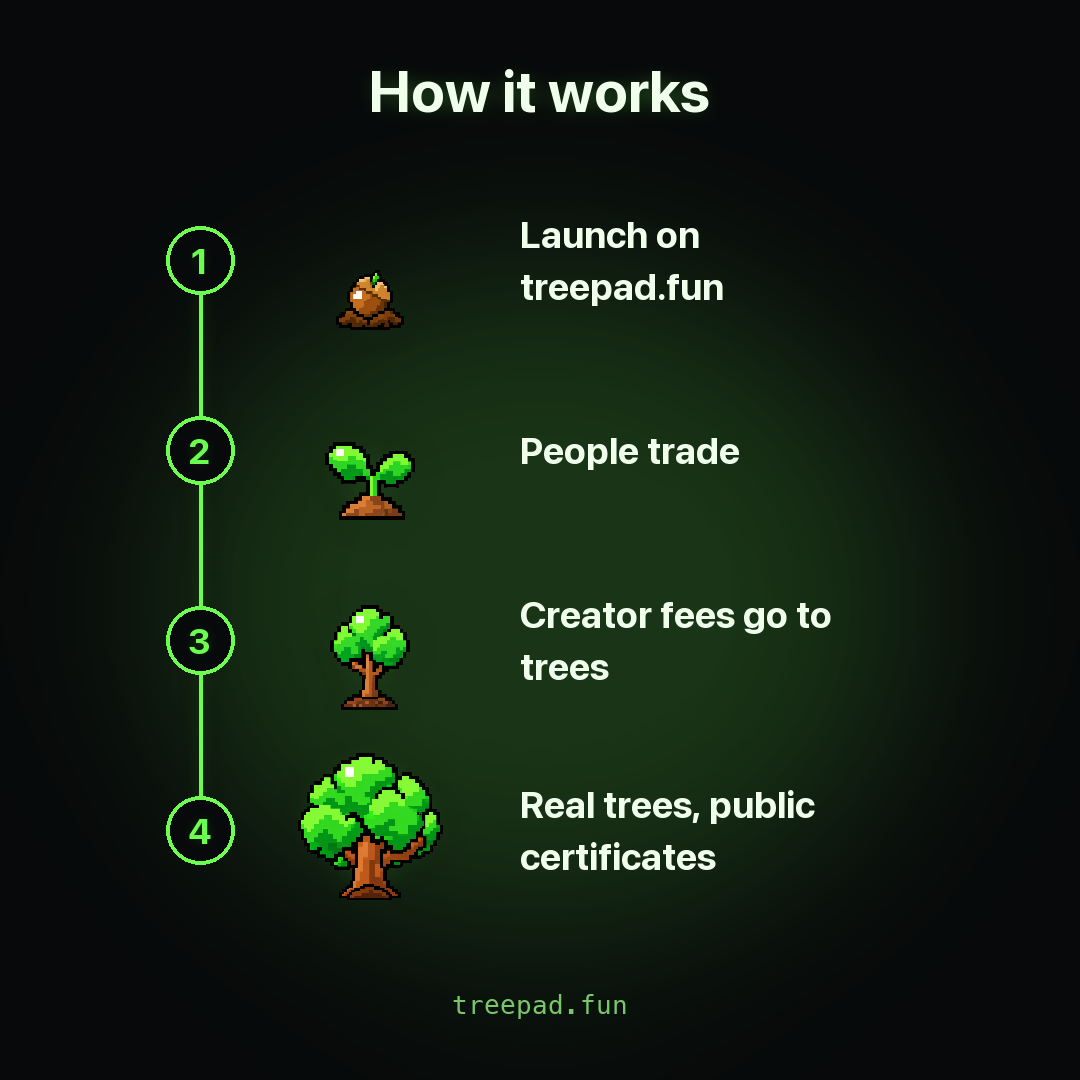
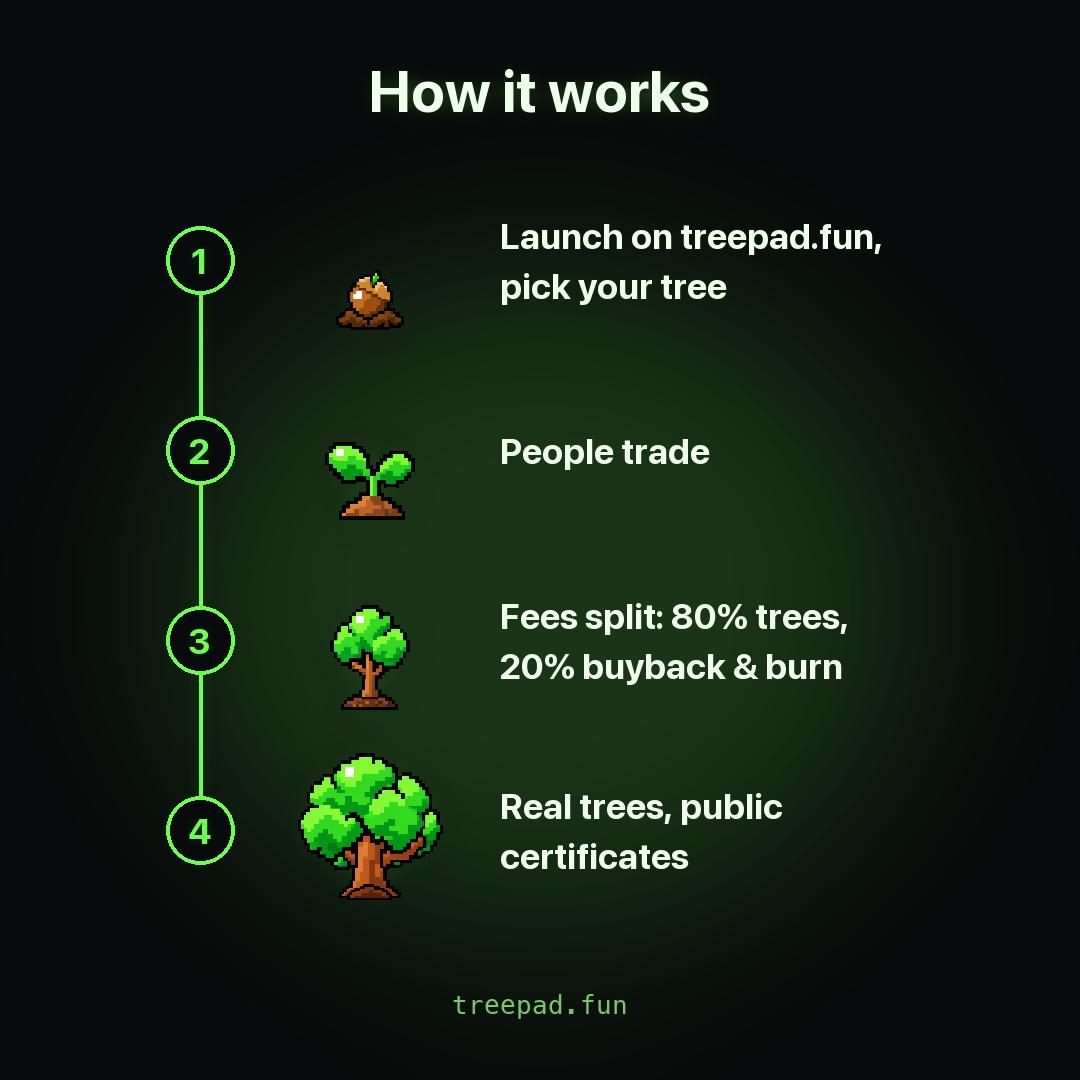
feat: Treepad launch-day kit, 80/20 split

diff --git a/docs/treepad-launch-kit/index.html b/docs/treepad-launch-kit/index.html
@@ -9,79 +9,83 @@ h1{font-size:32px;margin:8px 0 4px}h2{font-size:22px;margin:32px 0 2px}.when,.to
 figure{overflow:hidden}figure img{width:100%;max-height:300px;object-fit:contain;background:#07090a;display:block;cursor:zoom-in}
 figcaption{display:flex;justify-content:space-between;align-items:center;gap:8px;padding:10px 12px;font-weight:600;font-size:13px;flex-wrap:wrap}small{color:var(--muted);font-weight:400}
 button{font:600 13px inherit;border-radius:9px;padding:7px 12px;cursor:pointer;border:0}.b{background:var(--neon);color:#07090a;align-self:flex-start}.g{background:transparent;color:var(--fg);border:1px solid var(--line)}
-</style></head><body><h1>Treepad launch kit</h1><p class="top">@treepadfun · tap Copy on any tweet or picture. After launch, the proof tweet with the real certificate link is at <a href="https://treepad.fun/launch-proof" target="_blank">treepad.fun/launch-proof</a>. [CA] is the contract address.</p><section><h2>Profile</h2><p class="when">Set up before the first tweet.</p><div class="tw"><div class="card"><div class="lab">Bio (also pump.fun description and DEX Screener info)</div><pre>Coin launchpad on pump.fun. 80% of creator fees plant real trees, 20% buys back and burns our own coin. No extra tax on traders. Every trade plants a tree.</pre><button class="b" data-t="Coin launchpad on pump.fun. 80% of creator fees plant real trees, 20% buys back and burns our own coin. No extra tax on traders. Every trade plants a tree.">Copy</button></div></div><div class="im"><figure><img src="img/avatar.png" alt="Profile picture" loading="lazy" onclick="window.open(this.src)"><figcaption><span>Profile picture <small>400×400</small></span><span><button class="b ci">Copy image</button> <button class="g dl" data-n="treepad-avatar.png">Download</button></span></figcaption></figure><figure><img src="img/x-header.png" alt="Header" loading="lazy" onclick="window.open(this.src)"><figcaption><span>Header <small>1500×500</small></span><span><button class="b ci">Copy image</button> <button class="g dl" data-n="treepad-x-header.png">Download</button></span></figcaption></figure></div></section><section><h2>Pre-launch</h2><p class="when">Before you go live. Pick one.</p><div class="tw"><div class="card"><div class="lab">Teaser 1</div><pre>Most coins send creator fees to a dev wallet.
+</style></head><body><h1>Treepad launch kit</h1><p class="top">@treepadfun · tap Copy on any tweet or picture. After launch, the proof tweet with the real certificate link is at <a href="https://treepad.fun/launch-proof" target="_blank">treepad.fun/launch-proof</a>. [CA] is the contract address.</p><section><h2>Profile</h2><p class="when">Set up before the launch tweet.</p><div class="tw"><div class="card"><div class="lab">Bio (also pump.fun description and DEX Screener info)</div><pre>Coin launchpad on pump.fun. 80% of creator fees plant real trees, 20% buys back and burns our own coin. No extra tax on traders. Every trade plants a tree.</pre><button class="b" data-t="Coin launchpad on pump.fun. 80% of creator fees plant real trees, 20% buys back and burns our own coin. No extra tax on traders. Every trade plants a tree.">Copy</button></div></div><div class="im"><figure><img src="img/avatar.png" alt="Profile picture" loading="lazy" onclick="window.open(this.src)"><figcaption><span>Profile picture <small>400×400</small></span><span><button class="b ci">Copy image</button> <button class="g dl" data-n="treepad-avatar.png">Download</button></span></figcaption></figure><figure><img src="img/x-header.png" alt="Header" loading="lazy" onclick="window.open(this.src)"><figcaption><span>Header <small>1500×500</small></span><span><button class="b ci">Copy image</button> <button class="g dl" data-n="treepad-x-header.png">Download</button></span></figcaption></figure></div></section><section><h2>Launch</h2><p class="when">The moment you go live. Pick one.</p><div class="tw"><div class="card"><div class="lab">Launch 1</div><pre>Treepad is live.
 
-One launchpad sends them into the ground.
+Launch a coin on pump.fun through treepad.fun. 80% of its creator fees plant a tree you pick, 20% buys back and burns $TICKER.
 
-Soon.</pre><button class="b" data-t="Most coins send creator fees to a dev wallet.
-
-One launchpad sends them into the ground.
-
-Soon.">Copy</button></div><div class="card"><div class="lab">Teaser 2</div><pre>Every trade plants a tree.
-
-Each tree gets its own public certificate. Receipts for all of it.
-
-Soon.</pre><button class="b" data-t="Every trade plants a tree.
-
-Each tree gets its own public certificate. Receipts for all of it.
-
-Soon.">Copy</button></div><div class="card"><div class="lab">Teaser 3</div><pre>Mangroves in Kenya. Mahogany in Nicaragua. Avocado in Uganda.
-
-500+ real trees in 22 countries, and your coin's fees pick which one.
-
-Treepad. Soon.</pre><button class="b" data-t="Mangroves in Kenya. Mahogany in Nicaragua. Avocado in Uganda.
-
-500+ real trees in 22 countries, and your coin's fees pick which one.
-
-Treepad. Soon.">Copy</button></div></div><div class="im"><figure><img src="img/prelaunch.png" alt="Teaser" loading="lazy" onclick="window.open(this.src)"><figcaption><span>Teaser <small>1600×900</small></span><span><button class="b ci">Copy image</button> <button class="g dl" data-n="treepad-prelaunch.png">Download</button></span></figcaption></figure><figure><img src="img/other-devs.png" alt="Other launchpads vs Treepad" loading="lazy" onclick="window.open(this.src)"><figcaption><span>Other launchpads vs Treepad <small>1600×900</small></span><span><button class="b ci">Copy image</button> <button class="g dl" data-n="treepad-other-devs.png">Download</button></span></figcaption></figure><figure><img src="img/world-pins.png" alt="Plant anywhere" loading="lazy" onclick="window.open(this.src)"><figcaption><span>Plant anywhere <small>1600×900</small></span><span><button class="b ci">Copy image</button> <button class="g dl" data-n="treepad-world-pins.png">Download</button></span></figcaption></figure></div></section><section><h2>Launch</h2><p class="when">The moment you go live. Pick one.</p><div class="tw"><div class="card"><div class="lab">Launch 1</div><pre>Treepad is live.
-
-Launch a coin on pump.fun through treepad.fun and 80% of its creator fees plant trees. The other 20% buys back and burns the Treepad coin. No extra tax on traders.
-
-Every trade plants a tree.
+No extra tax on traders. Every trade plants a tree.
 
 [CA]</pre><button class="b" data-t="Treepad is live.
 
-Launch a coin on pump.fun through treepad.fun and 80% of its creator fees plant trees. The other 20% buys back and burns the Treepad coin. No extra tax on traders.
+Launch a coin on pump.fun through treepad.fun. 80% of its creator fees plant a tree you pick, 20% buys back and burns $TICKER.
 
-Every trade plants a tree.
+No extra tax on traders. Every trade plants a tree.
 
 [CA]">Copy</button></div><div class="card"><div class="lab">Launch 2</div><pre>Every trade plants a tree.
 
-Treepad is live on pump.fun. Pick from 500+ real trees in 22 countries and 80% of your coin's creator fees plant them. 20% buys back and burns the Treepad coin. The whole ledger is public.
+Treepad is live on pump.fun. Pick from 500+ trees in 22 countries and 80% of your coin's fees plant them. The other 20% buys back and burns $TICKER.
 
 treepad.fun
 
 [CA]</pre><button class="b" data-t="Every trade plants a tree.
 
-Treepad is live on pump.fun. Pick from 500+ real trees in 22 countries and 80% of your coin's creator fees plant them. 20% buys back and burns the Treepad coin. The whole ledger is public.
+Treepad is live on pump.fun. Pick from 500+ trees in 22 countries and 80% of your coin's fees plant them. The other 20% buys back and burns $TICKER.
 
 treepad.fun
 
-[CA]">Copy</button></div></div><div class="im"><figure><img src="img/launch.png" alt="Launch" loading="lazy" onclick="window.open(this.src)"><figcaption><span>Launch <small>1600×900</small></span><span><button class="b ci">Copy image</button> <button class="g dl" data-n="treepad-launch.png">Download</button></span></figcaption></figure><figure><img src="img/launch-square.png" alt="Launch (square)" loading="lazy" onclick="window.open(this.src)"><figcaption><span>Launch (square) <small>1080×1080</small></span><span><button class="b ci">Copy image</button> <button class="g dl" data-n="treepad-launch-square.png">Download</button></span></figcaption></figure></div></section><section><h2>Pinned thread</h2><p class="when">Right after the launch tweet. Post as a thread, pin the first one.</p><div class="tw"><div class="card"><div class="lab">1/</div><pre>1/ Treepad is a coin launchpad on pump.fun where 80% of creator fees plant trees and 20% buys back and burns the Treepad coin.
+[CA]">Copy</button></div></div><div class="im"><figure><img src="img/launch.png" alt="Launch" loading="lazy" onclick="window.open(this.src)"><figcaption><span>Launch <small>1600×900</small></span><span><button class="b ci">Copy image</button> <button class="g dl" data-n="treepad-launch.png">Download</button></span></figcaption></figure><figure><img src="img/launch-square.png" alt="Launch (square)" loading="lazy" onclick="window.open(this.src)"><figcaption><span>Launch (square) <small>1080×1080</small></span><span><button class="b ci">Copy image</button> <button class="g dl" data-n="treepad-launch-square.png">Download</button></span></figcaption></figure></div></section><section><h2>Pinned thread</h2><p class="when">Right after the proof tweet. Post as a thread, pin the first one.</p><div class="tw"><div class="card"><div class="lab">1/</div><pre>1/ Treepad is a launchpad on pump.fun where your coin's fees plant real trees.
 
-You launch through treepad.fun. Your coin goes live on pump.fun like any other.
+Launch through treepad.fun, pick a tree, and your coin goes live on pump.fun like any other.
 
-Every trade plants a tree.</pre><button class="b" data-t="1/ Treepad is a coin launchpad on pump.fun where 80% of creator fees plant trees and 20% buys back and burns the Treepad coin.
+Every trade plants a tree.</pre><button class="b" data-t="1/ Treepad is a launchpad on pump.fun where your coin's fees plant real trees.
 
-You launch through treepad.fun. Your coin goes live on pump.fun like any other.
+Launch through treepad.fun, pick a tree, and your coin goes live on pump.fun like any other.
 
-Every trade plants a tree.">Copy</button></div><div class="card"><div class="lab">2/</div><pre>2/ 80% of the coin's creator fees go to planting trees, 20% to buying back and burning the Treepad coin. It's pump.fun's normal creator fee, so traders pay no extra tax.
+Every trade plants a tree.">Copy</button></div><div class="card"><div class="lab">2/</div><pre>2/ The split is locked on chain the moment your coin is created:
 
-Fees reach the tree wallet within seconds. A tree is ordered as soon as fees cover one.</pre><button class="b" data-t="2/ 80% of the coin's creator fees go to planting trees, 20% to buying back and burning the Treepad coin. It's pump.fun's normal creator fee, so traders pay no extra tax.
+80% of creator fees plant trees
+20% buys back and burns $TICKER, our own coin
 
-Fees reach the tree wallet within seconds. A tree is ordered as soon as fees cover one.">Copy</button></div><div class="card"><div class="lab">3/</div><pre>3/ You pick the tree. 500+ species in 22 countries: mangroves in Kenya, mahogany in Nicaragua, oaks in Spain, rainforest in Australia.
+It's pump.fun's normal creator fee. Traders pay nothing extra.</pre><button class="b" data-t="2/ The split is locked on chain the moment your coin is created:
 
-All planted through Tree-Nation, from €0.35 a tree.</pre><button class="b" data-t="3/ You pick the tree. 500+ species in 22 countries: mangroves in Kenya, mahogany in Nicaragua, oaks in Spain, rainforest in Australia.
+80% of creator fees plant trees
+20% buys back and burns $TICKER, our own coin
 
-All planted through Tree-Nation, from €0.35 a tree.">Copy</button></div><div class="card"><div class="lab">4/</div><pre>4/ Check it yourself.
+It's pump.fun's normal creator fee. Traders pay nothing extra.">Copy</button></div><div class="card"><div class="lab">3/</div><pre>3/ You pick the tree. 500+ species in 22 countries: mangroves in Kenya, mahogany in Nicaragua, oaks in Spain, rainforest in Australia.
 
-Every tree has its own public certificate. Every fee payout is a Solana transaction. The whole ledger is on the Forest page.
+Planted through Tree-Nation, from €0.35 a tree.</pre><button class="b" data-t="3/ You pick the tree. 500+ species in 22 countries: mangroves in Kenya, mahogany in Nicaragua, oaks in Spain, rainforest in Australia.
 
-treepad.fun/forest</pre><button class="b" data-t="4/ Check it yourself.
+Planted through Tree-Nation, from €0.35 a tree.">Copy</button></div><div class="card"><div class="lab">4/</div><pre>4/ It runs itself. Fees reach the tree wallet within seconds, and a tree is ordered the moment fees cover one.
 
-Every tree has its own public certificate. Every fee payout is a Solana transaction. The whole ledger is on the Forest page.
+Nothing to claim, no dev wallet in the middle.</pre><button class="b" data-t="4/ It runs itself. Fees reach the tree wallet within seconds, and a tree is ordered the moment fees cover one.
 
-treepad.fun/forest">Copy</button></div></div><div class="im"><figure><img src="img/how-it-works.png" alt="How it works" loading="lazy" onclick="window.open(this.src)"><figcaption><span>How it works <small>1600×900</small></span><span><button class="b ci">Copy image</button> <button class="g dl" data-n="treepad-how-it-works.png">Download</button></span></figcaption></figure><figure><img src="img/how-it-works-square.png" alt="How it works (square)" loading="lazy" onclick="window.open(this.src)"><figcaption><span>How it works (square) <small>1080×1080</small></span><span><button class="b ci">Copy image</button> <button class="g dl" data-n="treepad-how-it-works-square.png">Download</button></span></figcaption></figure><figure><img src="img/pick-your-tree.png" alt="Pick your tree" loading="lazy" onclick="window.open(this.src)"><figcaption><span>Pick your tree <small>1600×900</small></span><span><button class="b ci">Copy image</button> <button class="g dl" data-n="treepad-pick-your-tree.png">Download</button></span></figcaption></figure><figure><img src="img/pick-your-tree-square.png" alt="Pick your tree (square)" loading="lazy" onclick="window.open(this.src)"><figcaption><span>Pick your tree (square) <small>1080×1080</small></span><span><button class="b ci">Copy image</button> <button class="g dl" data-n="treepad-pick-your-tree-square.png">Download</button></span></figcaption></figure></div></section><section><h2>Day one</h2><p class="when">Through the first day.</p><div class="tw"><div class="card"><div class="lab">Tree count</div><pre>[N] trees planted so far.
+Nothing to claim, no dev wallet in the middle.">Copy</button></div><div class="card"><div class="lab">5/</div><pre>5/ Check it yourself.
+
+Every tree has its own public certificate. Every fee payout is a Solana transaction. Every $TICKER buyback and burn is listed.
+
+treepad.fun/forest</pre><button class="b" data-t="5/ Check it yourself.
+
+Every tree has its own public certificate. Every fee payout is a Solana transaction. Every $TICKER buyback and burn is listed.
+
+treepad.fun/forest">Copy</button></div></div><div class="im"><figure><img src="img/how-it-works.png" alt="How it works" loading="lazy" onclick="window.open(this.src)"><figcaption><span>How it works <small>1600×900</small></span><span><button class="b ci">Copy image</button> <button class="g dl" data-n="treepad-how-it-works.png">Download</button></span></figcaption></figure><figure><img src="img/how-it-works-square.png" alt="How it works (square)" loading="lazy" onclick="window.open(this.src)"><figcaption><span>How it works (square) <small>1080×1080</small></span><span><button class="b ci">Copy image</button> <button class="g dl" data-n="treepad-how-it-works-square.png">Download</button></span></figcaption></figure><figure><img src="img/fees-to-trees.png" alt="80% trees, 20% buyback &amp; burn" loading="lazy" onclick="window.open(this.src)"><figcaption><span>80% trees, 20% buyback &amp; burn <small>1600×900</small></span><span><button class="b ci">Copy image</button> <button class="g dl" data-n="treepad-fees-to-trees.png">Download</button></span></figcaption></figure></div></section><section><h2>Buyback &amp; burn</h2><p class="when">Day one, and after every burn.</p><div class="tw"><div class="card"><div class="lab">Every coin feeds $TICKER</div><pre>Every coin launched on Treepad feeds $TICKER.
+
+20% of their creator fees buys back $TICKER and burns it. More launches, more trades, more $TICKER burned.
+
+Every buy and burn is public:
+treepad.fun/forest</pre><button class="b" data-t="Every coin launched on Treepad feeds $TICKER.
+
+20% of their creator fees buys back $TICKER and burns it. More launches, more trades, more $TICKER burned.
+
+Every buy and burn is public:
+treepad.fun/forest">Copy</button></div><div class="card"><div class="lab">Burn done</div><pre>$TICKER buyback and burn done.
+
+[SOL] SOL of Treepad's fees bought [BURNED] $TICKER, now burned for good.
+
+Burn: [BURN LINK]</pre><button class="b" data-t="$TICKER buyback and burn done.
+
+[SOL] SOL of Treepad's fees bought [BURNED] $TICKER, now burned for good.
+
+Burn: [BURN LINK]">Copy</button></div></div><div class="im"><figure><img src="img/buyback-burn.png" alt="Buyback &amp; burn" loading="lazy" onclick="window.open(this.src)"><figcaption><span>Buyback &amp; burn <small>1600×900</small></span><span><button class="b ci">Copy image</button> <button class="g dl" data-n="treepad-buyback-burn.png">Download</button></span></figcaption></figure><figure><img src="img/other-devs.png" alt="Other launchpads vs Treepad" loading="lazy" onclick="window.open(this.src)"><figcaption><span>Other launchpads vs Treepad <small>1600×900</small></span><span><button class="b ci">Copy image</button> <button class="g dl" data-n="treepad-other-devs.png">Download</button></span></figcaption></figure></div></section><section><h2>Day one and after</h2><p class="when">Keep the feed going.</p><div class="tw"><div class="card"><div class="lab">Tree count</div><pre>[N] trees planted so far.
 
 Every one has a public certificate. Open any of them:
 
@@ -89,15 +93,15 @@ treepad.fun/forest</pre><button class="b" data-t="[N] trees planted so far.
 
 Every one has a public certificate. Open any of them:
 
-treepad.fun/forest">Copy</button></div><div class="card"><div class="lab">Launch yours</div><pre>Want your coin to plant trees too?
+treepad.fun/forest">Copy</button></div><div class="card"><div class="lab">Launch yours</div><pre>Want your coin to plant trees?
 
-Launch it at treepad.fun. It goes live on pump.fun like any other coin, and 80% of its creator fees go to trees.</pre><button class="b" data-t="Want your coin to plant trees too?
+Launch it at treepad.fun. It goes live on pump.fun like any other coin, and 80% of its creator fees plant the tree you pick.</pre><button class="b" data-t="Want your coin to plant trees?
 
-Launch it at treepad.fun. It goes live on pump.fun like any other coin, and 80% of its creator fees go to trees.">Copy</button></div><div class="card"><div class="lab">Pick your tree</div><pre>Your coin, your tree.
+Launch it at treepad.fun. It goes live on pump.fun like any other coin, and 80% of its creator fees plant the tree you pick.">Copy</button></div><div class="card"><div class="lab">Pick your tree</div><pre>Your coin, your tree.
 
-Launch on treepad.fun and pick from 500+ species in 22 countries. 80% of your coin's fees plant that tree, certificate and all.</pre><button class="b" data-t="Your coin, your tree.
+Pick from 500+ species in 22 countries when you launch on treepad.fun. Your coin's fees plant that tree, certificate and all.</pre><button class="b" data-t="Your coin, your tree.
 
-Launch on treepad.fun and pick from 500+ species in 22 countries. 80% of your coin's fees plant that tree, certificate and all.">Copy</button></div><div class="card"><div class="lab">Where they go</div><pre>Where do the trees go?
+Pick from 500+ species in 22 countries when you launch on treepad.fun. Your coin's fees plant that tree, certificate and all.">Copy</button></div><div class="card"><div class="lab">Where they go</div><pre>Where do the trees go?
 
 Wherever launchers pick. The first 10 are Grey Mangroves on Kenya's coast, planted before a single fee came in.
 
@@ -105,7 +109,15 @@ Certificate: [CERT LINK]</pre><button class="b" data-t="Where do the trees go?
 
 Wherever launchers pick. The first 10 are Grey Mangroves on Kenya's coast, planted before a single fee came in.
 
-Certificate: [CERT LINK]">Copy</button></div></div><div class="im"><figure><img src="img/fees-to-trees.png" alt="80% of fees to trees" loading="lazy" onclick="window.open(this.src)"><figcaption><span>80% of fees to trees <small>1600×900</small></span><span><button class="b ci">Copy image</button> <button class="g dl" data-n="treepad-fees-to-trees.png">Download</button></span></figcaption></figure><figure><img src="img/mangroves.png" alt="The first trees: Kenya's mangroves" loading="lazy" onclick="window.open(this.src)"><figcaption><span>The first trees: Kenya's mangroves <small>1600×900</small></span><span><button class="b ci">Copy image</button> <button class="g dl" data-n="treepad-mangroves.png">Download</button></span></figcaption></figure></div></section><script>
+Certificate: [CERT LINK]">Copy</button></div><div class="card"><div class="lab">Plant anywhere</div><pre>Kenya. Nicaragua. Spain. Australia. Brazil. India.
+
+43 reforestation projects, one launchpad.
+
+treepad.fun</pre><button class="b" data-t="Kenya. Nicaragua. Spain. Australia. Brazil. India.
+
+43 reforestation projects, one launchpad.
+
+treepad.fun">Copy</button></div></div><div class="im"><figure><img src="img/pick-your-tree.png" alt="Pick your tree" loading="lazy" onclick="window.open(this.src)"><figcaption><span>Pick your tree <small>1600×900</small></span><span><button class="b ci">Copy image</button> <button class="g dl" data-n="treepad-pick-your-tree.png">Download</button></span></figcaption></figure><figure><img src="img/pick-your-tree-square.png" alt="Pick your tree (square)" loading="lazy" onclick="window.open(this.src)"><figcaption><span>Pick your tree (square) <small>1080×1080</small></span><span><button class="b ci">Copy image</button> <button class="g dl" data-n="treepad-pick-your-tree-square.png">Download</button></span></figcaption></figure><figure><img src="img/world-pins.png" alt="Plant anywhere" loading="lazy" onclick="window.open(this.src)"><figcaption><span>Plant anywhere <small>1600×900</small></span><span><button class="b ci">Copy image</button> <button class="g dl" data-n="treepad-world-pins.png">Download</button></span></figcaption></figure><figure><img src="img/mangroves.png" alt="The first trees: Kenya's mangroves" loading="lazy" onclick="window.open(this.src)"><figcaption><span>The first trees: Kenya's mangroves <small>1600×900</small></span><span><button class="b ci">Copy image</button> <button class="g dl" data-n="treepad-mangroves.png">Download</button></span></figcaption></figure></div></section><script>
 const flash=(b,t)=>{const o=b.textContent;b.textContent=t;setTimeout(()=>b.textContent=o,1600)};
 async function copyText(t){try{await navigator.clipboard.writeText(t);return true}catch{const a=document.createElement('textarea');a.value=t;document.body.appendChild(a);a.select();const ok=document.execCommand('copy');a.remove();return ok}}
 document.querySelectorAll('[data-t]').forEach(b=>b.onclick=async()=>flash(b,await copyText(b.dataset.t)?'Copied':'Select & copy'));
